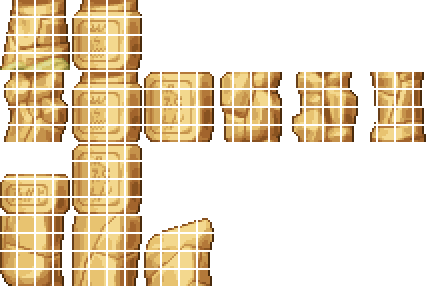
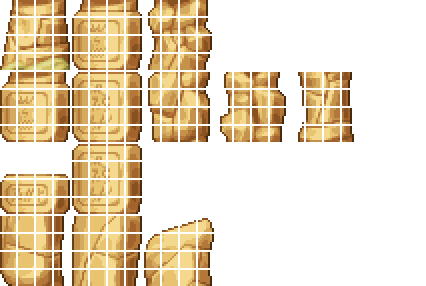
Framing updates

Changed region(s): [[0.0, 0.0, 1.0, 0.5035]]

diff --git a/Content/Tiles/Desert/DesertMonolith.cs b/Content/Tiles/Desert/DesertMonolith.cs
@@ -1,4 +1,6 @@
-using Terraria.ID;
+using Terraria.DataStructures;
+using Terraria.Enums;
+using Terraria.ID;
 using Terraria.ObjectData;
 
 namespace StarlightRiver.Content.Tiles.Desert
@@ -10,7 +12,10 @@ namespace StarlightRiver.Content.Tiles.Desert
 		public override void SetStaticDefaults()
 		{
 			TileObjectData.newTile.StyleHorizontal = true;
-			QuickBlock.QuickSetFurniture(this, 4, 4, DustID.Sand, SoundID.Tink, new Color(200, 160, 50));
+			TileObjectData.newTile.DrawYOffset = 2;
+
+			var anchor = new AnchorData(AnchorType.SolidTile | AnchorType.AlternateTile, 4, 0);
+			QuickBlock.QuickSetFurniture(this, 4, 4, DustID.Sand, SoundID.Tink, new Color(200, 160, 50), bottomAnchor: anchor, anchorTiles: new int[] { Type });
 		}
 
 		public override void PlaceInWorld(int i, int j, Item item)
@@ -26,12 +31,20 @@ namespace StarlightRiver.Content.Tiles.Desert
 
 				if (tile.TileType != Type)
 				{
-					FrameMonolith(Main.rand.Next(2), 0, i - 2, j - 2);
+					FrameMonolith(Main.rand.Next(3), 0, i - 2, j - 2);
 					break;
 				}
 				else
 				{
-					FrameMonolith(Main.rand.Next(5), 1, i - 2, j - 2);
+					int thisFrame = Main.rand.Next(4); //We do all this to prevent >1 repeat of the same frame
+
+					short frameDown1 = Framing.GetTileSafely(i - 2, j + 2).TileFrameX;
+					short frameDown2 = Framing.GetTileSafely(i - 2, j + 6).TileFrameX;
+
+					while (frameDown1 == frameDown2 && frameDown1 == (short)(thisFrame * 18))
+						thisFrame = Main.rand.Next(4);
+
+					FrameMonolith(thisFrame, 1, i - 2, j - 2);
 				}
 
 				j += 4;
@@ -50,6 +63,14 @@ namespace StarlightRiver.Content.Tiles.Desert
 			}
 		}
 
+		public override void KillMultiTile(int i, int j, int frameX, int frameY)
+		{
+			Tile tile = Framing.GetTileSafely(i, j + 4);
+
+			if (tile.TileType == Type)
+				FrameMonolith(Main.rand.Next(2), 2, i, j + 4);
+		}
+
 		public void FrameMonolith(int x, int y, int i, int j)
 		{
 			for (int x1 = 0; x1 < 4; x1++)
@@ -57,6 +78,10 @@ namespace StarlightRiver.Content.Tiles.Desert
 				for (int y1 = 0; y1 < 4; y1++)
 				{
 					Tile tile = Framing.GetTileSafely(i + x1, j + y1);
+
+					if (tile.TileType != Type)
+						return;
+
 					tile.TileFrameX = (short)(4 * 18 * x + x1 * 18);
 					tile.TileFrameY = (short)(4 * 18 * y + y1 * 18);
 				}
@@ -69,5 +94,17 @@ namespace StarlightRiver.Content.Tiles.Desert
 		public override string Texture => AssetDirectory.DesertTile + Name;
 
 		public DesertMonolithItem() : base("Desert Monolith", "Places a section of desert monolith", "DesertMonolith") { }
+	}
+
+	internal class DesertMonolithFlipped : DesertMonolith
+	{
+		//huh, not much to do here, huh?
+	}
+
+	internal class DesertMonolithFlippedItem : QuickTileItem
+	{
+		public override string Texture => AssetDirectory.DesertTile + Name;
+
+		public DesertMonolithFlippedItem() : base("Flipped Desert Monolith", "Places a section of flipped desert monolith", "DesertMonolithFlipped") { }
 	}
 }
